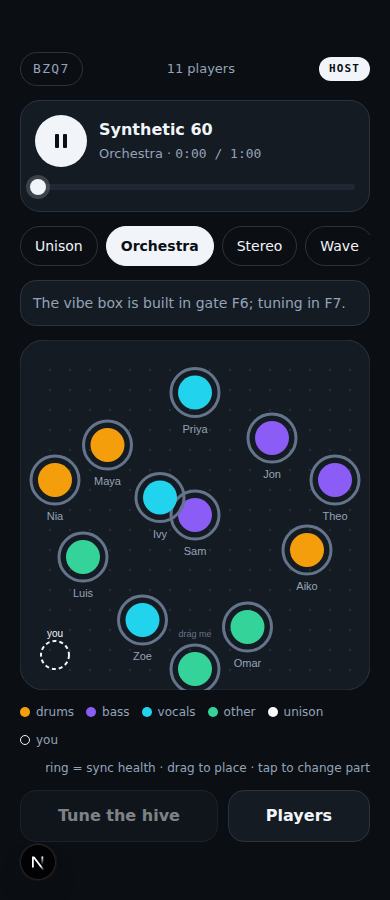
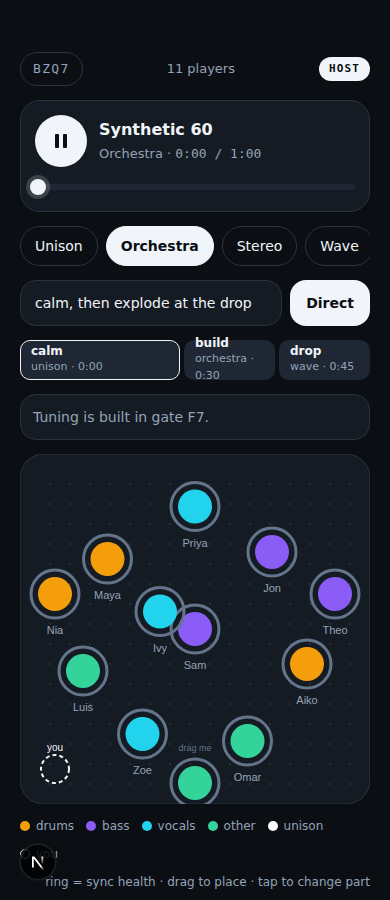
F6: vibe box + scene strip
- components/VibeBox.tsx: prompt input + Direct -> host.vibe(prompt) (POST /rooms/:code/vibe);
  the server's own 5s budget/rules fallback means the UI just needs a busy state and an error
  message if the fetch itself fails.
- components/SceneStrip.tsx: widths proportional to each scene's duration, current scene from
  activeSceneIndex(room.scenePlan, trackTimeSec) read on a requestAnimationFrame loop off
  client.clock.trackTimeSec(); renders nothing when scenePlan is null (a manual SET_MODE already
  clears it server-side).
- app/h/[code]/page.tsx: wires both into Stage, between the mode chips and the map.

Gate F6 done: Playwright green (Direct posts to /rooms/BZQ7/vibe; the strip renders the plan's 3
scenes; seeking the transport bar moves the highlighted scene forward as expected; a manual mode
chip click removes the strip), evidence/frontend/F6-vibe.png.

diff --git a/apps/web/e2e/f6-vibe.spec.ts b/apps/web/e2e/f6-vibe.spec.ts
@@ -1,0 +1,42 @@
+import { test, expect } from "./fixtures";
+
+test.use({ mockScenario: "join.json" });
+
+test("F6: submit posts to /rooms/BZQ7/vibe, the strip shows 3 scenes, and the highlight moves as time advances", async ({ page }) => {
+  const vibePost = page.waitForResponse((res) => res.url().includes("/rooms/BZQ7/vibe") && res.request().method() === "POST");
+
+  await page.goto("/h/BZQ7");
+  await expect(page.getByRole("button", { name: /Start the hive|Start anyway/ })).toBeEnabled({ timeout: 10_000 });
+  await page.getByRole("button", { name: /Start the hive|Start anyway/ }).click();
+  await expect(page.getByRole("button", { name: "Pause" })).toBeVisible({ timeout: 10_000 });
+
+  await page.getByLabel("Describe the vibe").fill("calm then explode at the drop");
+  await page.getByRole("button", { name: "Direct" }).click();
+  const res = await vibePost;
+  expect(res.ok()).toBeTruthy();
+
+  const scenes = page.locator('[data-testid="scene-strip"] > div');
+  await expect(scenes).toHaveCount(3, { timeout: 10_000 });
+  await expect(scenes.nth(0)).toHaveAttribute("data-active", "true");
+
+  // seek into the second scene's window (mock plan: 0 / dur*0.5=30 / dur*0.75=45, duration=60)
+  const seekBar = page.getByRole("slider", { name: "Seek" });
+  const box = await seekBar.boundingBox();
+  await page.mouse.click(box!.x + box!.width * 0.55, box!.y + box!.height / 2);
+  await expect(scenes.nth(1)).toHaveAttribute("data-active", "true", { timeout: 5000 });
+
+  await page.mouse.click(box!.x + box!.width * 0.9, box!.y + box!.height / 2);
+  await expect(scenes.nth(2)).toHaveAttribute("data-active", "true", { timeout: 5000 });
+});
+
+test("F6: a manual mode chip clears the plan", async ({ page }) => {
+  await page.goto("/h/BZQ7");
+  await expect(page.getByRole("button", { name: /Start the hive|Start anyway/ })).toBeEnabled({ timeout: 10_000 });
+  await page.getByRole("button", { name: /Start the hive|Start anyway/ }).click();
+  await page.getByLabel("Describe the vibe").fill("calm then explode at the drop");
+  await page.getByRole("button", { name: "Direct" }).click();
+  await expect(page.locator('[data-testid="scene-strip"] > div')).toHaveCount(3, { timeout: 10_000 });
+
+  await page.getByRole("button", { name: "Wave", exact: true }).click();
+  await expect(page.locator('[data-testid="scene-strip"]')).toHaveCount(0, { timeout: 5000 });
+});

diff --git a/apps/web/components/SceneStrip.tsx b/apps/web/components/SceneStrip.tsx
@@ -1,0 +1,62 @@
+"use client";
+
+import { useEffect, useState } from "react";
+import { activeSceneIndex, type RoomState } from "@hive/protocol";
+import type { HiveClock } from "@hive/sync-client";
+import { formatTrackTime } from "@/lib/hive/derive";
+
+function modeLabel(kind: string): string {
+  return kind.charAt(0) + kind.slice(1).toLowerCase();
+}
+
+/** Widths proportional to scene durations; activeSceneIndex(room.scenePlan, trackTimeSec) highlights the current one. */
+export function SceneStrip({ room, clock }: { room: RoomState; clock: HiveClock }) {
+  const [trackTimeSec, setTrackTimeSec] = useState(0);
+
+  useEffect(() => {
+    let raf: number;
+    const tick = () => {
+      setTrackTimeSec(clock.trackTimeSec());
+      raf = requestAnimationFrame(tick);
+    };
+    raf = requestAnimationFrame(tick);
+    return () => cancelAnimationFrame(raf);
+  }, [clock]);
+
+  const plan = room.scenePlan;
+  if (!plan) return null;
+
+  const duration = room.track?.durationSec ?? plan.scenes[plan.scenes.length - 1]!.atTrackSec + 10;
+  const activeIndex = activeSceneIndex(plan, trackTimeSec);
+
+  return (
+    <div className="flex gap-1" data-testid="scene-strip">
+      {plan.scenes.map((scene, i) => {
+        const end = i + 1 < plan.scenes.length ? plan.scenes[i + 1]!.atTrackSec : duration;
+        const width = Math.max(0, end - scene.atTrackSec);
+        const active = i === activeIndex;
+        return (
+          <div
+            key={i}
+            data-active={active ? "true" : "false"}
+            className="flex h-10 flex-col justify-center rounded-[10px] px-2.5"
+            style={{
+              flexGrow: width || 1,
+              flexBasis: 0,
+              background: "var(--raised)",
+              border: active ? "1px solid var(--primary-fill)" : "1px solid transparent",
+              color: "var(--muted)",
+            }}
+          >
+            <span className="text-xs font-semibold" style={{ color: "var(--text)" }}>
+              {scene.note}
+            </span>
+            <span className="text-[11px]">
+              {modeLabel(scene.mode).toLowerCase()} · {formatTrackTime(scene.atTrackSec)}
+            </span>
+          </div>
+        );
+      })}
+    </div>
+  );
+}

diff --git a/apps/web/components/VibeBox.tsx b/apps/web/components/VibeBox.tsx
@@ -1,0 +1,56 @@
+"use client";
+
+import { useState } from "react";
+import type { HiveHostControls } from "@hive/sync-client";
+
+/** Vibe prompt + Direct -> host.vibe(prompt); the server falls back to rules within its own 5s budget. */
+export function VibeBox({ host }: { host: HiveHostControls }) {
+  const [prompt, setPrompt] = useState("calm, then explode at the drop");
+  const [busy, setBusy] = useState(false);
+  const [error, setError] = useState<string | null>(null);
+
+  async function submit() {
+    const trimmed = prompt.trim();
+    if (!trimmed || busy) return;
+    setBusy(true);
+    setError(null);
+    try {
+      await host.vibe(trimmed);
+    } catch {
+      setError("Could not reach the vibe director; try again.");
+    } finally {
+      setBusy(false);
+    }
+  }
+
+  return (
+    <div className="flex flex-col gap-1.5">
+      <div className="flex gap-2">
+        <label className="flex h-[46px] grow items-center rounded-2xl border px-3.5" style={{ background: "var(--surface)", borderColor: "var(--border)" }}>
+          <input
+            value={prompt}
+            onChange={(e) => setPrompt(e.target.value.slice(0, 200))}
+            onKeyDown={(e) => e.key === "Enter" && submit()}
+            placeholder="Describe the vibe"
+            aria-label="Describe the vibe"
+            className="w-full bg-transparent text-sm outline-none"
+            style={{ color: "var(--text)" }}
+          />
+        </label>
+        <button
+          onClick={submit}
+          disabled={busy}
+          className="flex h-[46px] items-center justify-center rounded-2xl px-4 text-sm font-semibold disabled:opacity-60"
+          style={{ background: "var(--primary-fill)", color: "var(--primary-text)" }}
+        >
+          {busy ? "Directing…" : "Direct"}
+        </button>
+      </div>
+      {error ? (
+        <span className="text-xs" style={{ color: "var(--health-bad)" }}>
+          {error}
+        </span>
+      ) : null}
+    </div>
+  );
+}

diff --git a/apps/web/app/h/[code]/page.tsx b/apps/web/app/h/[code]/page.tsx
@@ -10,6 +10,8 @@ import { QrCode } from "@/components/QrCode";
 import { TransportBar } from "@/components/TransportBar";
 import { HiveMap } from "@/components/HiveMap";
 import { ModeChips } from "@/components/ModeChips";
+import { VibeBox } from "@/components/VibeBox";
+import { SceneStrip } from "@/components/SceneStrip";
 import { Legend } from "@/components/Legend";
 import { PlayerSheet } from "@/components/PlayerSheet";
 import { PlayersDrawer } from "@/components/PlayersDrawer";
@@ -137,8 +139,11 @@ export default function HostPage({ params }: { params: Promise<{ code: string }>
 
         <ModeChips current={room.mode.kind} host={client.host} />
 
+        <VibeBox host={client.host} />
+        <SceneStrip room={room} clock={client.clock} />
+
         <div className="rounded-2xl border p-3 text-sm" style={{ background: "var(--surface)", borderColor: "var(--border)", color: "var(--muted)" }}>
-          The vibe box is built in gate F6; tuning in F7.
+          Tuning is built in gate F7.
         </div>
 
         <div className="flex justify-center">

diff --git a/apps/web/e2e/evidence.spec.ts b/apps/web/e2e/evidence.spec.ts
@@ -70,3 +70,14 @@ test.describe("F4 evidence", () => {
     await page.screenshot({ path: path.join(OUT, "F4-map.png") });
   });
 });
+
+test.describe("F6 evidence", () => {
+  test.use({ mockScenario: "party-12.json" });
+
+  test("F6 evidence: vibe box + scene strip screenshot", async ({ page }) => {
+    await page.setViewportSize({ width: 390, height: 980 });
+    await page.goto("/h/BZQ7");
+    await expect(page.locator('[data-testid="scene-strip"] > div')).toHaveCount(3, { timeout: 10_000 });
+    await page.screenshot({ path: path.join(OUT, "F6-vibe.png") });
+  });
+});

diff --git a/docs/08-roadmap.md b/docs/08-roadmap.md
@@ -70,7 +70,7 @@ Each agent edits its own rows only (the detailed gate tables with ✅/🟡 live 
 | F3 | frontend | 🟡 needs human (phones) | `evidence/frontend/F3-playing.png`, `F3-phone.md` |
 | F4 | frontend | done | `evidence/frontend/F4-map.png` |
 | F5 | frontend | done | `evidence/frontend/F5-modes.md` (+webm, gitignored) |
-| F6 | frontend | todo | |
+| F6 | frontend | done | `evidence/frontend/F6-vibe.png` |
 | F7 | frontend | todo | |
 | F8 | frontend | todo | |
 | F9 | frontend | todo | |
